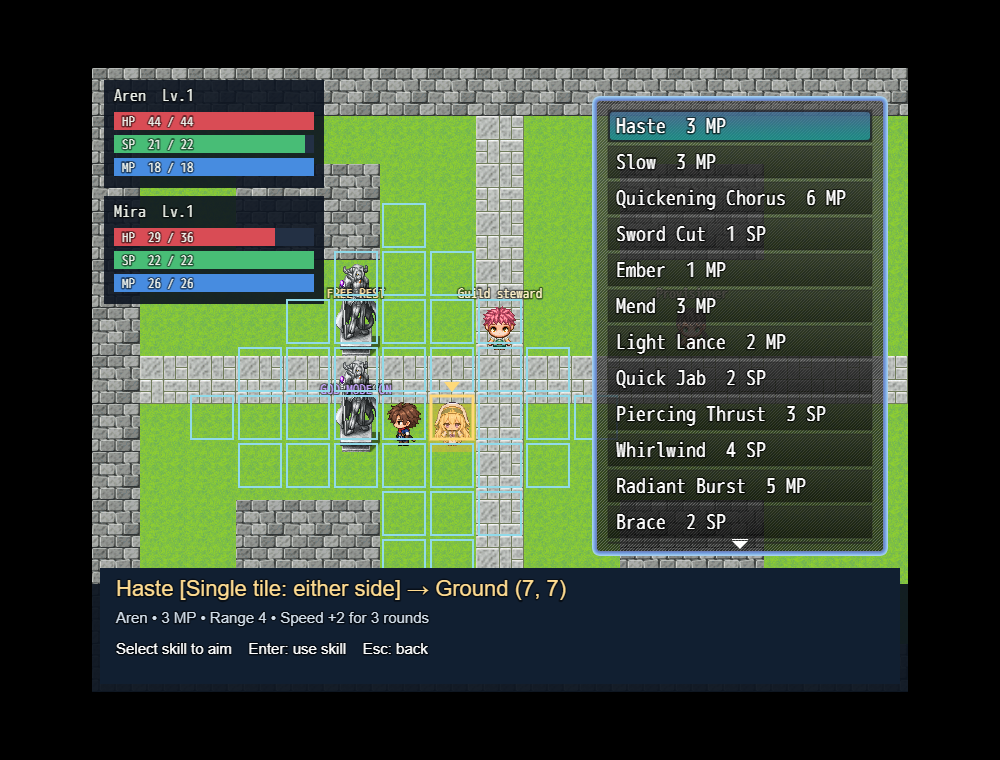
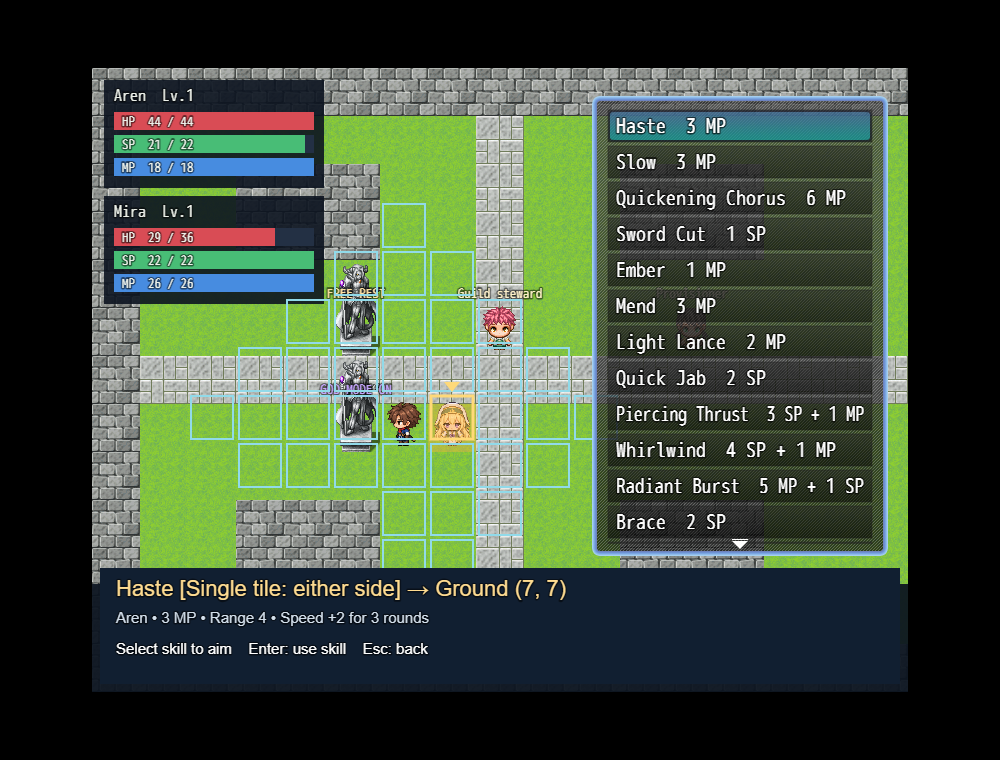
Add dual AoE costs and persistent combat movement

Changed region(s): [[0.62, 0.5145, 0.868, 0.6658]]

diff --git a/src/js/plugins/FirstJourneyPresentation.js b/src/js/plugins/FirstJourneyPresentation.js
@@ -20,20 +20,29 @@
         this.center(focus ? focus.x : Math.round(this._realX * 3) / 3, focus ? focus.y : Math.round(this._realY * 3) / 3);
     };
     const directions = { down: [0, 1], left: [-1, 0], right: [1, 0], up: [0, -1] };
-    const originalStepAnime = Game_Player.prototype.hasStepAnime;
-    Game_Player.prototype.hasStepAnime = function() {
+    const originalStepAnime = Game_CharacterBase.prototype.hasStepAnime;
+    Game_CharacterBase.prototype.hasStepAnime = function() {
         const scene = SceneManager._scene, s = current();
-        const walking = s && s.aren.hp > 0 && scene instanceof Scene_Map && scene.isActive() &&
+        const unit = s && (this === $gamePlayer ? s.aren : this === $gameMap.event(1) ? s.mira : null);
+        if (!unit) return originalStepAnime.call(this);
+        const walking = s && s.aren.hp > 0 && unit.hp > 0 && scene instanceof Scene_Map && scene.isActive() &&
             !s.round && !scene._journeyChoices && !scene._journeyDialogue && !scene._journeyTarget &&
-            !$gameMessage.isBusy() && !this.isTransferring() && (!s.combat || scene._journeyCombatMove);
+            !$gameMessage.isBusy() && !$gamePlayer.isTransferring() && (!s.combat || scene._journeyCombatMove);
         const blocked = walking && scene._journeyBlockedWalkKey &&
             (Input.isPressed(scene._journeyBlockedWalkKey) || Graphics.frameCount < scene._journeyBlockedWalkUntil);
-        if (scene && !blocked) scene._journeyBlockedWalkKey = null;
+        if (this === $gamePlayer && scene && !blocked) scene._journeyBlockedWalkKey = null;
         return originalStepAnime.call(this) || !!blocked;
     };
     Scene_Map.prototype.animateJourneyBlockedStep = function(dx, dy) {
         this._journeyBlockedWalkKey = Object.keys(directions).find(key => directions[key][0] === dx && directions[key][1] === dy);
         this._journeyBlockedWalkUntil = Graphics.frameCount + $gamePlayer.animationWait() + 1;
+        const members = R.party(current()).filter(unit => unit.hp > 0);
+        for (let i = 1; i < members.length; i++) {
+            const follower = members[i], leader = members[i - 1];
+            if (follower.x === leader.x && follower.y === leader.y) follower.direction = leader.direction;
+            else R.faceToward(follower, leader);
+        }
+        this.syncJourney();
     };
     function wrapped(bitmap, text, x, y, width, lineHeight = 29) {
         let line = "";
@@ -169,7 +178,7 @@
         const power = Math.round((skill.power + (unit.level - 1) * 2) * (unit.id === "aren" && !skill.basic ? 0.6 + R.mastery(s, selection.id) * 0.2 : 1));
         const speedPower = Math.sign(skill.power) * Math.max(1, Math.round(Math.abs(skill.power) * (unit.id === "aren" ? 0.6 + R.mastery(s, selection.id) * 0.2 : 1)));
         const detail = skill.kind === "speed" ? "Speed " + (skill.power > 0 ? "+" : "") + speedPower + " for " + skill.duration + " rounds" : skill.kind === "guard" ? "Reduce the next hit" : (skill.kind === "damage" ? "Damage " : "Restore HP ") + power;
-        bitmap.drawText(unit.name + " • " + skill.cost + " " + skill.pool.toUpperCase() + " • Range " + skill.range + " • " + detail, 24, Graphics.height - 87, Graphics.width - 48, 26);
+        bitmap.drawText(unit.name + " • " + R.costText(selection.id) + " • Range " + skill.range + " • " + detail, 24, Graphics.height - 87, Graphics.width - 48, 26);
         bitmap.fontSize = 15; bitmap.textColor = "#ffffff";
         bitmap.drawText((preview ? "Select skill to aim    " : selection.targets.length > 1 ? "Arrows: aim on ground    " : "Arrows: turn to aim    ") + "Enter: use skill    Esc: back", 24, Graphics.height - 58, Graphics.width - 48, 30);
         bitmap.baseTexture.update();
@@ -330,19 +339,22 @@
         this.drawJourneyTarget(this._journeyPreview, true);
         return false;
     };
+    Scene_Map.prototype.enterJourneyMove = function() {
+        this.closeJourneyChoices(); this._journeyCombatMove = true; Input.update();
+    };
     Scene_Map.prototype.combatMenu = function() {
         if (!current().combat || current().round) return;
         this._journeyCombatMove = false;
         this.choices([
             { label: "Move", enabled: current().aren.hp > 0, run: () => {
-                this.closeJourneyChoices(); this._journeyCombatMove = true; Input.update();
+                this.enterJourneyMove();
             } },
             { label: "Skill", enabled: current().aren.hp > 0, run: () => this.skillMenu() },
             { label: "Guard", run: () => this.submitJourneyAction({ type: current().aren.hp > 0 ? "guard" : "wait" }) },
             { label: "View Turn Order", run: () => {
                 this.closeJourneyChoices(); this._journeyInspectOrder = true; this._journeyOrderIndex = 0; Input.update();
             } }
-        ], () => this.fieldMenu(), 248);
+        ], () => this.enterJourneyMove(), 248);
         this._journeyCombatMenu = true;
     };
     Scene_Map.prototype.updateJourneyCombatMove = function() {
@@ -351,15 +363,19 @@
         b.fontSize = 20; b.textColor = "#ffdc91";
         b.drawText("Move — choose a direction", 24, Graphics.height - 82, Graphics.width - 48, 30);
         b.fontSize = 16; b.textColor = "#ffffff";
-        b.drawText("Arrow: move one tile    Esc: back    Blocked steps spend no action", 24, Graphics.height - 48, Graphics.width - 48, 28);
+        b.drawText("Arrows: move    Enter: combat commands    Esc: menu", 24, Graphics.height - 48, Graphics.width - 48, 28);
         if (Input.isTriggered("cancel") || TouchInput.isCancelled()) {
-            this._journeyCombatMove = false; b.clear(); this.combatMenu(); return true;
+            b.clear(); this.fieldMenu(); return true;
         }
+        if (Input.isTriggered("ok")) { b.clear(); this.combatMenu(); return true; }
+        if (Input.isTriggered("journeySkills")) { b.clear(); this.skillMenu(); return true; }
+        if (Input.isTriggered("journeyWait")) { b.clear(); this.submitJourneyAction({ type: "wait" }); return true; }
+        if (Input.isTriggered("journeyControl")) { this.toggleMiraCommands(); return true; }
         const key = Object.keys(directions).find(name => Input.isRepeated(name));
         if (key) {
             const [dx, dy] = directions[key]; R.face(current(), dx, dy);
             if (R.validAction(current(), current().aren, { type: "move", dx, dy })) {
-                this._journeyCombatMove = false; b.clear(); this.submitJourneyAction({ type: "move", dx, dy });
+                b.clear(); this.submitJourneyAction({ type: "move", dx, dy });
             } else { this.animateJourneyBlockedStep(dx, dy); if (Input.isTriggered(key)) SoundManager.playBuzzer(); this.syncJourney(); }
         }
         return true;
@@ -378,7 +394,7 @@
         const x0 = 244, width = Graphics.width - x0 - 12, cell = Math.min(88, (width - 16) / Math.max(1, entries.length));
         b.fillRect(x0, 12, width, 104, "rgba(12,20,32,0.96)");
         b.fontSize = 14; b.textColor = "#f4d68c";
-        b.drawText(s.round ? "TURN ORDER → resolving" : "TURN ORDER → fastest first", x0 + 8, 15, width - 16, 22);
+        b.drawText("Round " + s.turn + (s.round ? " • TURN ORDER → resolving" : " • TURN ORDER → fastest first"), x0 + 8, 15, width - 16, 22);
         entries.forEach((entry, index) => {
             const unit = units.find(u => u.id === entry.unitId);
             if (!unit) return;
@@ -437,10 +453,11 @@
         this.ensureJourneyPresentation();
         this.drawJourneyTimeline();
         if (this._journeyInspectOrder) return this.updateJourneyOrderInspection();
-        if (this._journeyCombatMove) return this.updateJourneyCombatMove();
+        if (!current().combat && this._journeyCombatMove) { this._journeyCombatMove = false; this._journeyOverlay.bitmap.clear(); }
         if (this._journeyDialogue) return this.updateJourneyDialogue();
         if (this._journeyTarget) return this.updateJourneyTargeting();
         if (this.updateJourneyEffects()) return true;
+        if (this._journeyCombatMove && !current().round && !this._journeyChoices && !this._journeyPendingAction && !$gamePlayer.isMoving() && !$gameMap.events().some(event => event.isMoving())) return this.updateJourneyCombatMove();
         return this.updateJourneySkillPreview();
     };
 })();

diff --git a/src/js/plugins/FirstJourneyRules.js b/src/js/plugins/FirstJourneyRules.js
@@ -211,13 +211,24 @@
         if (skill.shape) return footprint(state, user, id, target).some(tile => tile.x === target.x && tile.y === target.y);
         return !wall(state, target.x, target.y) && distance(user, target) <= skill.range && sight(state, user, target);
     }
+    function skillCosts(id) {
+        const skill = skills[id];
+        if (!skill) return {};
+        const costs = { [skill.pool]: skill.cost };
+        if (isArea(id) && offensive(id)) costs[skill.pool === "sp" ? "mp" : "sp"] = Math.max(1, skill.secondaryCost || 1);
+        return costs;
+    }
+    function canAfford(unit, id) {
+        return !!skills[id] && Object.entries(skillCosts(id)).every(([pool, amount]) => (unit[pool] || 0) >= amount);
+    }
+    function costText(id) { return Object.entries(skillCosts(id)).map(([pool, amount]) => amount + " " + pool.toUpperCase()).join(" + "); }
     function use(state, user, id, target = aim(user, id)) {
         const skill = skills[id];
-        if (!skill || user.hp <= 0 || user[skill.pool] < skill.cost) return false;
+        if (!skill || user.hp <= 0 || !canAfford(user, id)) return false;
         if (skill.kind === "guard" && skill.range === 0 && !skill.shape) target = user;
         if (target.hp !== undefined && !canTarget(state, user, id, target)) return false;
         if ((!skill.shape || skill.shape === "burst") && !canTarget(state, user, id, target)) return false;
-        user[skill.pool] -= skill.cost;
+        for (const [pool, amount] of Object.entries(skillCosts(id))) user[pool] -= amount;
         const factor = user.id === "aren" && !skill.basic ? 0.6 + mastery(state, id) * 0.2 : 1;
         const power = Math.round((skill.power + (user.level - 1) * 2) * factor);
         observe(state, user, id);
@@ -392,7 +403,7 @@
         if (unit.hp <= 0) return action.type === "wait";
         if (action.type === "skill") {
             const skill = skills[action.id];
-            return !!skill && availableSkills(state, unit).includes(action.id) && unit[skill.pool] >= skill.cost && ((skill.shape && skill.shape !== "burst") || canTarget(state, unit, action.id, action.target || aim(unit, action.id)));
+            return !!skill && availableSkills(state, unit).includes(action.id) && canAfford(unit, action.id) && ((skill.shape && skill.shape !== "burst") || canTarget(state, unit, action.id, action.target || aim(unit, action.id)));
         }
         if (action.type === "move") return Math.abs(action.dx) + Math.abs(action.dy) === 1 && !wall(state, unit.x + action.dx, unit.y + action.dy) && !solid(state, unit.x + action.dx, unit.y + action.dy) && !enemies(state).some(e => e.x === unit.x + action.dx && e.y === unit.y + action.dy);
         if (action.type === "potion") {
@@ -416,7 +427,7 @@
             }
         }
         combatCheck(state);
-        state.turn++;
+        if (state.combat) state.turn++;
         const previous = { x: state.aren.x, y: state.aren.y };
         const entries = [{ unitId: "aren", action }, { unitId: "mira", action: miraAction || { type: action.type === "move" ? "follow" : "auto", target: previous } }, ...enemies(state).filter(e => e.active).map(e => ({ unitId: e.id, action: { type: "enemy" } }))].filter(entry => [...party(state), ...area(state).enemies].find(unit => unit.id === entry.unitId)?.hp > 0);
         if (!state.combat) {
@@ -507,7 +518,7 @@
         for (const npc of map.npcs || []) if (npc.x === front.x && npc.y === front.y) return npc.type;
         log(state, "Face a person or object, then press Enter."); return "none";
     }
-    const api = { turnOrder, speed, offensive, validAction, submit, advance, isArea, targetRule, passageTiles, aim, villagers, availableSkills, toggleGodMode, footprint, affected, targetOptions, progressText, skills, jobs, maps, create, area, enemies, party, distance, maxStats, jobSkills, wall, sight, mastery, ready, learned, slots, observe, use, move, cast, equip, rest, potion, interact, travel, finishTurn, combatCheck, log, checkpoint, canTarget, directions, face, faceToward, solid };
+    const api = { skillCosts, canAfford, costText, turnOrder, speed, offensive, validAction, submit, advance, isArea, targetRule, passageTiles, aim, villagers, availableSkills, toggleGodMode, footprint, affected, targetOptions, progressText, skills, jobs, maps, create, area, enemies, party, distance, maxStats, jobSkills, wall, sight, mastery, ready, learned, slots, observe, use, move, cast, equip, rest, potion, interact, travel, finishTurn, combatCheck, log, checkpoint, canTarget, directions, face, faceToward, solid };
     if (typeof module !== "undefined" && module.exports) module.exports = api;
     globalThis.FirstJourneyRules = api;
 })();

diff --git a/src/js/plugins/FirstJourney.js b/src/js/plugins/FirstJourney.js
@@ -144,7 +144,7 @@
     };
     Scene_Map.prototype.commandUnit = function() { return this._journeyPendingAction ? state().mira : state().aren; };
     Scene_Map.prototype.submitJourneyAction = function(action) {
-        this.closeJourneyChoices(); this._journeyPreview = null; this._journeyCombatMove = false;
+        this.closeJourneyChoices(); this._journeyPreview = null;
         const s = state(), unit = this.commandUnit();
         if (!R.validAction(s, unit, action)) {
             if (action.type === "move" && unit.id === "aren") this.animateJourneyBlockedStep(action.dx, action.dy);
@@ -171,8 +171,8 @@
     };
     Scene_Map.prototype.skillMenu = function() {
         const s = state(), unit = this.commandUnit(), ids = R.availableSkills(s, unit);
-        this.choices(ids.map(id => ({ label: R.skills[id].name + "  " + R.skills[id].cost + " " + R.skills[id].pool.toUpperCase(),
-            skillId: id, enabled: unit.hp > 0 && unit[R.skills[id].pool] >= R.skills[id].cost, run: () => this.beginJourneyTargeting(id)
+        this.choices(ids.map(id => ({ label: R.skills[id].name + "  " + R.costText(id),
+            skillId: id, enabled: unit.hp > 0 && R.canAfford(unit, id), run: () => this.beginJourneyTargeting(id)
         })), () => { this._journeyPreview = null; this._journeyOverlay?.bitmap.clear(); if (this._journeyPendingAction) this.miraCommandMenu(); }, 296);
     };
     Scene_Map.prototype.journal = function() {
@@ -217,7 +217,8 @@
                 "Enter: interact beside a rest, person or supplies. Walk into doorways.\nTown rests are free. Shrine rests cost one ration.\nWaiting restores nothing. Sword Cut costs SP; Ember costs MP.",
                 "Witness a basic skill 3 times to copy its form at 60% power.\nPractice raises it at 6/12/18 points to 80/100/120%.\nDebug units: watching +25; using +100.",
                 "Advanced skills need their prerequisite at 100% mastery.\nUntil then each observation adds 5/300 learning units.\nLoadouts change outside combat; starting attacks use no slots.",
-                "Combat actions resolve in descending Speed order.\nDowned allies need rest or Revive. If both fall, you return\nto town with progression retained. Use map exits to retreat."
+                "Combat actions resolve in descending Speed order.\nCancel from combat commands enters persistent Move.\nEnter reopens commands; Esc in Move opens the normal menu.",
+                "AoE attacks also cost 1 of the other resource: SP or MP.\nOnly combat actions count rounds. Downed allies need rest\nor Revive. Defeat returns you to town with progress retained."
             ]); } }
         ], null, 280);
     };
@@ -262,7 +263,7 @@
             b.fillRect(Graphics.width - 320, 12, 308, 108, "rgba(12,20,32,0.9)");
             b.fontSize = 15;
             text(R.maps[s.mapId].name, Graphics.width - 310, 15, 290, "#f0d79b");
-            text((s.round ? "RESOLVING" : s.combat ? "COMBAT" : "EXPLORING") + " • Round " + s.turn + " • Mira " + (s.combat && s.direct ? "Direct" : "Auto"), Graphics.width - 310, 40, 290);
+            text((s.round ? "RESOLVING" : s.combat ? "COMBAT" : "EXPLORING") + (s.combat ? " • Round " + s.turn : "") + " • Mira " + (s.combat && s.direct ? "Direct" : "Auto"), Graphics.width - 310, 40, 290);
             b.fontSize = 13;
             text("Rations " + s.inventory.ration + "   Gold " + s.gold + "   " + saveStatus, Graphics.width - 310, 65, 290, "#a9c1cf");
             text(s.quest === "return" ? "Return to the guild" : s.quest === "complete" ? "First test complete" : "Clear the goblin nest", Graphics.width - 310, 88, 290, "#f0d79b");

diff --git a/src/FIRST_JOURNEY.md b/src/FIRST_JOURNEY.md
@@ -80,9 +80,11 @@ Outside combat, actions and following resolve immediately without Speed sorting
 or sequential delays. Speed effects do not lose duration while exploring.
 Combat uses the exploration map; there is no battle scene.
 
-The combat menu opens automatically between rounds: **Move**, **Skill**,
-**Guard**, and **View Turn Order**. Move accepts one direction; a blocked step
-or cancellation spends no action. Esc opens the usual field menu.
+Combat starts with **Move**, **Skill**, **Guard**, and **View Turn Order**.
+Move or Cancel enters persistent Move mode: each valid step resolves a round
+and keeps movement active, including after Mira’s direct command. Enter reopens
+combat commands. Esc in Move opens the usual field menu; closing it returns to
+Move. Blocked steps and menu navigation spend no action.
 The top timeline shows actor faces, names and Speed from fastest to slowest;
 the current actor is marked during execution. View Turn Order lets arrows or
 a click select any actor and highlight their location, panning the camera
@@ -96,10 +98,18 @@ In combat with direct mode enabled, Aren remains the leader and Mira receives a 
 Aren action. If Aren falls, choose Wait to let Mira act; command her to revive
 him when available. If Mira falls, her command step is skipped.
 
-Holding a direction into a wall or solid object keeps Aren’s walking animation
-playing without advancing time or spending resources. Releasing the direction
-returns him to idle. Party walking frames are centered with aligned feet and
+Holding a direction into a wall or solid object keeps the living party’s walking animations
+playing, with companions facing the preceding party member, without advancing time or spending resources. Releasing the direction
+returns the party to idle. Party walking frames are centered with aligned feet and
 are at least as wide and tall as the Guild Steward and Provisioner.
+
+Offensive AoE skills spend their normal cost plus at least 1 of the other
+resource: physical areas require 1 MP and magical areas require 1 SP. This
+applies to party and enemy attacks, even empty or wall-clipped casts. Both
+pools must be sufficient; costs are shown together in skill selection.
+Healing and support buffs retain their normal costs. Only combat actions
+increase the cumulative round counter, shown on the combat timeline.
+Exploration neither increases nor displays that counter.
 
 ## Attack areas and entrances
 
@@ -152,7 +162,7 @@ is saved and an interaction creates an autosave.
   the party's HP, SP and MP, including downed members. Rest is unavailable in
   combat. Each supplies cache contains one ration and 6 gold, collectible once.
 - Rations cost 6 gold. HP/SP/MP potions cost 18/22/24 gold and have limited town
-  stock of 2/1/1. Potions restore 25 HP or 12 SP/MP and consume a world turn.
+  stock of 2/1/1. Potions restore 25 HP or 12 SP/MP and consume an action (a counted round only in combat).
   They do not revive a downed member. Waiting and leveling do not heal.
 - Mira starts with Mend and Light Lance; Radiant Burst arrives at level 2,
   Greater Mend at level 3 and
@@ -261,9 +271,9 @@ Playwright import path will need adjusting on another machine. It does not
 change the native MZ playtest's saves. MZ/NW.js deployment should still receive
 a complete manual playthrough before distribution.
 
-Verified on 19 September 2026: 27 rules checks and 12 sequential-turn checks
+Verified on 19 September 2026: 29 rules checks and 12 sequential-turn checks
 pass. The baseline expedition clears both shrine maps and returns to the guild
-in 131 turns, at level 3 with one ration left and no defeats. The browser run
+in 23 combat rounds, at level 3 with one ration left and no defeats. The browser run
 passes new-game startup, movement, one-third-tile camera scrolling, menus, skill
 hover, direct companion commands and cancellation, combat menus, timeline
 inspection, directional aiming, targeting, combat checkpoints,

diff --git a/docs/GAME_DESIGN.md b/docs/GAME_DESIGN.md
@@ -203,10 +203,18 @@ Villagers struck by single-tile attacks currently warn Aren not to attack people
 in public. They stay alive and remain available for conversation; they give no
 combat rewards. Any future reputation or other penalty is not implemented.
 
-Holding a direction into a wall or solid object keeps Aren’s walking animation
-playing without advancing time or spending resources. Releasing the direction
-returns him to idle. Party walking frames are centered with aligned feet and
+Holding a direction into a wall or solid object keeps the living party’s walking animations
+playing, with companions facing the preceding party member, without advancing time or spending resources. Releasing the direction
+returns the party to idle. Party walking frames are centered with aligned feet and
 are at least as wide and tall as the Guild Steward and Provisioner.
+
+Offensive AoE skills spend their normal cost plus at least 1 of the other
+resource: physical areas require 1 MP and magical areas require 1 SP. This
+applies to party and enemy attacks, even empty or wall-clipped casts. Both
+pools must be sufficient; costs are shown together in skill selection.
+Healing and support buffs retain their normal costs. Only combat actions
+increase the cumulative round counter, shown on the combat timeline.
+Exploration neither increases nor displays that counter.
 
 ## Sequential turns, Speed, and companion commands
 
@@ -229,13 +237,16 @@ block retains that aim even if a faster creature moves away.
 Outside combat, actions and following resolve immediately without initiative
 sorting or sequential delays. Speed-effect durations advance only in combat.
 
-Combat automatically opens a four-option menu between rounds: Move, Skill,
-Guard, and View Turn Order. Move accepts one directional step; blocked moves
-and cancellations spend no action. The top timeline shows faces, names, and
+Combat begins with a four-option menu: Move, Skill, Guard, and View Turn Order.
+Selecting Move or pressing Cancel from this menu enters persistent Move mode.
+Each valid directional step resolves a combat round, then stays in Move mode,
+including after direct companion commands. Enter reopens combat commands; Esc
+opens the normal field menu, which returns to Move when closed. Blocked steps
+and menu navigation spend no action. The top timeline shows faces, names, and
 Speed in execution order, marking the active actor while resolving. View Turn
 Order lets the player select faces with arrows or a click to highlight each
 actor's overworld location, with camera focus when needed. Inspection costs no
-action; Enter/Esc returns to commands. Esc from commands opens the field menu.
+action; Enter/Esc returns to commands. Esc from commands enters Move mode.
 
 Base Speed is 10 for Aren, 8 for Mira, 7 for ordinary goblins, 11 for supporters,
 and 9 for the boss; each level above the first adds 1. Speed changes turn order,

diff --git a/README.md b/README.md
@@ -23,15 +23,24 @@ Tab retains the direct-command preference for future combat encounters.
 **Tab** toggles Mira's automatic/direct commands; **Esc** opens the field menu.
 In combat, direct mode collects Aren's action and then Mira's before resolving the round
 in Speed order. Exploration resolves immediately. Combat opens
-Move / Skill / Guard / View Turn Order commands and a face-based initiative
-timeline; selecting a timeline actor highlights their map location. Directional
+Move / Skill / Guard / View Turn Order commands. Cancel enters persistent Move;
+Enter reopens combat commands, while Esc in Move opens the field menu. A face-based initiative
+timeline shows execution order; selecting an actor highlights their map location. Directional
 skills can be rotated with arrows during targeting. Legacy-save migration is
 not supported.
 
-Holding a direction into a wall or solid object keeps Aren’s walking animation
-playing without advancing time or spending resources. Releasing the direction
-returns him to idle. Party walking frames are centered with aligned feet and
+Holding a direction into a wall or solid object keeps the living party’s walking animations
+playing, with companions facing the preceding party member, without advancing time or spending resources. Releasing the direction
+returns the party to idle. Party walking frames are centered with aligned feet and
 are at least as wide and tall as the Guild Steward and Provisioner.
+
+Offensive AoE skills spend their normal cost plus at least 1 of the other
+resource: physical areas require 1 MP and magical areas require 1 SP. This
+applies to party and enemy attacks, even empty or wall-clipped casts. Both
+pools must be sufficient; costs are shown together in skill selection.
+Healing and support buffs retain their normal costs. Only combat actions
+increase the cumulative round counter, shown on the combat timeline.
+Exploration neither increases nor displays that counter.
 
 ## Documentation
 
